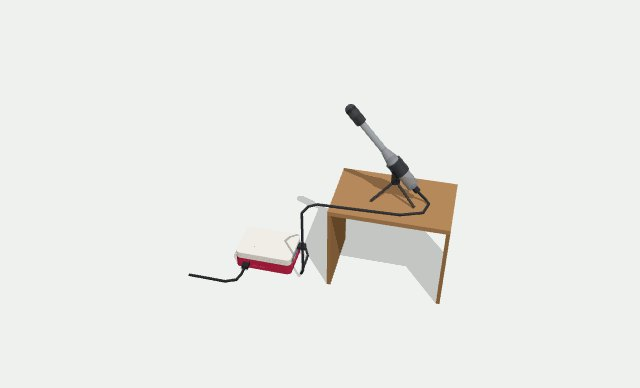
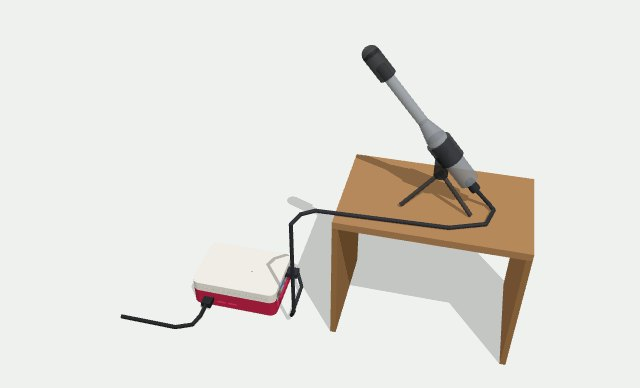
3D tab handles like the drone guide: wheel zoom, one-finger turn, Reset view, Full screen
Round 2 of the "play, spin and zoom freely" plan (Shad, 24 Nov 2026).

- The wheel over the model zooms; one finger turns it, two fingers zoom and
  slide. "Move the model" is gone; the page scrolls when touched outside
  the model.
- No glide: the model stops dead when you let go.
- Zoom limits as on the drone guide (0.25x to 3.2x the fitted distance).
  The camera never goes under the floor, except in step 5's view from below.
- Framed tight with the drone guide's corner fit, in a big frame (about
  585 px on a laptop); the step panel sits under the model on every screen.
- Reset view puts the camera back to the current step's view (camera only).
- Full screen as on the drone guide (an overlay with Close where the browser
  has no full screen for a page element); Esc closes it.
- The hint line in the drone guide's words, with touch words on a phone.
- check_page.py and checks/selftest.html check all of it in a real browser;
  the step pictures are retaken for the new framing.

Claude-Session: https://claude.ai/code/session_01TojNKSHurtPHdkP782ecRj

Changed region(s): [[0.2812, 0.0928, 0.8438, 0.9588], [0.25, 0.8041, 0.3125, 0.866], [0.1875, 0.8041, 0.25, 0.8351]]

diff --git a/js/viewer.js b/js/viewer.js
@@ -1,4 +1,5 @@
-// 3D viewer + step panel. The page scrolls normally until "Move the model" is pressed (UI fix 2).
+// 3D viewer + step panel. Since 24 Nov 2026 it handles like the drone guide's 3D view: the wheel zooms, one finger turns,
+// two fingers zoom, the model stops dead when you let go, Reset view and Full screen (Round 2 of the 3D plan).
 import * as THREE from "three";
 import { OrbitControls } from "three/addons/controls/OrbitControls.js";
 import { GLTFLoader } from "three/addons/loaders/GLTFLoader.js";
@@ -21,6 +22,8 @@ const VIEWS = { overview: [0.25, 0.8, 1.0], top: [0.001, 1, 0.02], front: [0.1, 
 const STEP_VIEW = { 0: ["overview"], 1: ["overview"], 2: ["overview"], 3: ["mic"], 4: ["mic"], 5: ["under", null, ["case_base", "board"]],
   6: ["front", "assemble"], 7: ["front", "power", ["case_base", "case_lid"]], 8: ["overview", "power"], 9: ["mic"], 10: ["mic"], 11: ["overview", "power"] };
 const DEFAULT_CAPTION = caption.textContent;
+// the hint line in the drone guide's words; a touch screen gets the touch words
+if (window.matchMedia && matchMedia("(pointer: coarse)").matches) $("vhint").textContent = "Drag to rotate · pinch to zoom · two-finger drag to pan";
 
 const renderer = new THREE.WebGLRenderer({ antialias: true, preserveDrawingBuffer: true });
 renderer.setPixelRatio(Math.min(window.devicePixelRatio, 2));
@@ -32,13 +35,15 @@ const sun = new THREE.DirectionalLight(0xffffff, 1.8); sun.castShadow = true; su
 const fill = new THREE.DirectionalLight(0xffffff, 0.5); fill.position.set(-1, 0.6, -1); scene.add(fill);
 const camera = new THREE.PerspectiveCamera(32, 1, 1, 5000);
 const controls = new OrbitControls(camera, renderer.domElement);
-controls.enableDamping = true;
-// Not grabbed: one finger scrolls the page (touch-action pan-y), two fingers pinch-zoom the model, the mouse drags to turn it,
-// and the mouse wheel scrolls the page (Ctrl + wheel zooms). 'Move the model' adds one-finger turning.
-let grabbed = false;
-function setTouches() { controls.touches = { ONE: grabbed ? THREE.TOUCH.ROTATE : null, TWO: THREE.TOUCH.DOLLY_PAN }; }
-setTouches();
-host.addEventListener("wheel", (e) => { if (!grabbed && !e.ctrlKey) e.stopPropagation(); }, { capture: true });
+// as on the drone guide: no glide after you let go; the wheel zooms; one finger turns, two fingers zoom and slide;
+// the page scrolls when touched outside the model (touch-action:none on the model only)
+controls.enableDamping = false;
+controls.enablePan = true;
+controls.zoomSpeed = 0.9;
+controls.touches = { ONE: THREE.TOUCH.ROTATE, TWO: THREE.TOUCH.DOLLY_PAN };
+const FLOOR = Math.PI * 0.495, BELOW = Math.PI * 0.97;   // never under the floor, except in a view from below (step 5)
+let userMoved = false;                                    // the camera is where you put it (until Reset view or a step)
+controls.addEventListener("start", () => { userMoved = true; });
 const root = new THREE.Group(); scene.add(root);
 const groups = {}, home = new Map(), labelEls = {}, anchors = {};
 let spin = false, exploded = false, xray = false, labelsOn = true, power = false, measure = false, focus = null, topView = false;
@@ -47,8 +52,9 @@ const ease = (t) => (t < 0.5 ? 2 * t * t : 1 - Math.pow(-2 * t + 2, 2) / 2);
 const baseKey = (n) => (n || "").split("#")[0].split("__")[0];
 let currentView = "overview", currentAimNodes = null;
 
-function resize() { const w = host.clientWidth, h = host.clientHeight; renderer.setSize(w, h, false); camera.aspect = w / h; camera.updateProjectionMatrix(); }
-new ResizeObserver(() => { resize(); if (!tween) aimAt(currentView, false, currentAimNodes); }).observe(host); resize();
+function resize() { const w = host.clientWidth, h = host.clientHeight; if (!w || !h) return; renderer.setSize(w, h, false); camera.aspect = w / h; camera.updateProjectionMatrix(); }
+// a new size (a turned phone, Full screen) frames the view again, unless you have moved the camera yourself
+new ResizeObserver(() => { resize(); if (!tween && !userMoved) aimAt(currentView, false, currentAimNodes); }).observe(host); resize();
 
 Promise.all([new Promise((res, rej) => new GLTFLoader().load("models/noise-logger.glb", res, undefined, rej)),
   fetch("models/colors.json").then((r) => r.json()), fetch("models/numbers.json").then((r) => r.json())])
@@ -127,32 +133,56 @@ Promise.all([new Promise((res, rej) => new GLTFLoader().load("models/noise-logge
 // ---------- camera ----------
 // how far a part rises in the exploded view (mm)
 const lift = (k) => (k === "case_lid" ? 78 : k === "case_frame" || k === "fan" ? 52 : PI.includes(k) ? 22 : 0) + (k === "heatsink" ? 12 : 0);
+/** the 8 corners of every shown part's box, where the parts will be once they stop moving (model 'up' is the screen's y) */
+function cornersOf(nodes) {
+  const pts = [], one = new THREE.Box3();
+  (nodes && nodes.length ? nodes : Object.keys(groups)).forEach((k) => (groups[k] || []).forEach((o) => {
+    if (!o.visible) return;
+    const mover = home.has(o) ? o : o.parent, moved = home.has(mover) ? mover.position.z - home.get(mover).z : 0;
+    const rise = (exploded ? lift(k) : 0) - moved;
+    one.setFromObject(o); if (one.isEmpty()) return; one.min.y += rise; one.max.y += rise;
+    for (let i = 0; i < 8; i++) pts.push(new THREE.Vector3(i & 1 ? one.max.x : one.min.x, i & 2 ? one.max.y : one.min.y, i & 4 ? one.max.z : one.min.z));
+  }));
+  return pts;
+}
+// the camera fit is the drone guide's (docs/js/viewer3d.js, collectCorners + fitCamera): framed tight, not by a loose ball
+const probe = new THREE.PerspectiveCamera();
+/** how far back the camera must sit, looking along dir at centre, for the farthest corner to reach 'fill' of the frame */
+function fitDistance(points, centre, dir, fill = 0.88) {
+  probe.fov = camera.fov; probe.aspect = camera.aspect; probe.near = camera.near; probe.far = camera.far; probe.updateProjectionMatrix();
+  let dist = 0; points.forEach((p) => { dist = Math.max(dist, p.distanceTo(centre)); }); dist = Math.max(dist, 30) * 2.4;
+  const q = new THREE.Vector3();
+  for (let i = 0; i < 16; i++) {
+    probe.position.copy(centre).addScaledVector(dir, dist); probe.lookAt(centre); probe.updateMatrixWorld(true);
+    let worst = 0; points.forEach((p) => { q.copy(p).project(probe); worst = Math.max(worst, Math.abs(q.x), Math.abs(q.y)); });
+    if (worst <= 0.001 || Math.abs(worst - fill) < 0.006) break;
+    dist *= worst / fill;
+  }
+  return dist;
+}
+/** zoom limits as on the drone guide: 0.25x to 3.2x the fitted distance; the camera stays above the floor except from below */
+function setLimits(dist, below) { controls.minDistance = dist * 0.25; controls.maxDistance = dist * 3.2; controls.maxPolarAngle = below ? BELOW : FLOOR; }
 function aimAt(view, animate = true, nodes = null) {
   if (!fitSphere) return;
-  currentView = view; currentAimNodes = nodes;
-  let sphere = fitSphere;
-  if (nodes && nodes.length) {
-    const b = new THREE.Box3(), one = new THREE.Box3();
-    nodes.forEach((k) => (groups[k] || []).forEach((o) => {
-      // frame the parts where they will be once they stop moving (model 'up' is the screen's y)
-      const mover = home.has(o) ? o : o.parent, moved = home.has(mover) ? mover.position.z - home.get(mover).z : 0;
-      const rise = (exploded ? lift(k) : 0) - moved;
-      one.setFromObject(o); one.min.y += rise; one.max.y += rise; b.union(one);
-    }));
-    if (!b.isEmpty()) sphere = b.getBoundingSphere(new THREE.Sphere());
-  }
-  const vfov = THREE.MathUtils.degToRad(camera.fov), hfov = 2 * Math.atan(Math.tan(vfov / 2) * camera.aspect);
-  const dist = Math.max(sphere.radius, 30) / Math.sin(Math.min(vfov, hfov) / 2) * 1.08;
+  currentView = view; currentAimNodes = nodes; userMoved = false;
+  const pts = cornersOf(nodes), box = new THREE.Box3().setFromPoints(pts);
+  const centre = pts.length ? box.getCenter(new THREE.Vector3()) : fitSphere.center.clone();
   const dir = new THREE.Vector3(...(VIEWS[view] || VIEWS.overview)).normalize();
-  const toPos = sphere.center.clone().addScaledVector(dir, dist), toTarget = sphere.center.clone();
-  if (!animate) { camera.position.copy(toPos); controls.target.copy(toTarget); controls.update(); return; }
+  const dist = pts.length ? fitDistance(pts, centre, dir) : fitSphere.radius * 3;
+  const toPos = centre.clone().addScaledVector(dir, dist), toTarget = centre.clone(), below = dir.y < 0;
+  if (!animate) { tween = null; setLimits(dist, below); camera.position.copy(toPos); controls.target.copy(toTarget); controls.update(); return; }
+  // while the camera glides to the new view the limits are wide open, so it never jumps; they close when it arrives
+  controls.minDistance = 0; controls.maxDistance = Infinity; controls.maxPolarAngle = BELOW;
   const fromPos = camera.position.clone(), fromTarget = controls.target.clone(), t0 = performance.now();
   tween = (now) => {
     const e = ease(Math.min(1, (now - t0) / 900));
     camera.position.lerpVectors(fromPos, toPos, e); controls.target.lerpVectors(fromTarget, toTarget, e);
-    if (e >= 1) tween = null;
+    if (e >= 1) { tween = null; setLimits(dist, below); }
   };
 }
+/** Reset view: the camera only (parts, modes and labels stay), back to the current step's own view */
+let stepAim = { view: "overview", nodes: null };
+function resetView() { aimAt(stepAim.view, true, stepAim.nodes); }
 
 // ---------- modes ----------
 function setExploded(on, animate = true) {
@@ -194,10 +224,21 @@ $("b-labels").onclick = () => { labelsOn = !labelsOn; press("b-labels", labelsOn
 $("b-measure").onclick = () => { setMeasure(!measure); if (measure) { setExploded(false, false); aimAt("top", true, ["board"]); } };
 $("b-power").onclick = () => { power = !power; press("b-power", power); paint(); };
 $("b-spin").onclick = () => { spin = !spin; press("b-spin", spin); };
-$("b-grab").onclick = () => {
-  grabbed = !grabbed; setTouches(); host.classList.toggle("grabbed", grabbed); press("b-grab", grabbed);
-  $("b-grab").textContent = grabbed ? "Done moving (scroll the page again)" : "Move the model";
+$("b-reset").onclick = resetView;
+// Full screen as on the drone guide: the real full screen where the browser has one for a page element; otherwise
+// (iPhone Safari), or when it fails, the 3D view fills the screen as an overlay with a Close button. Esc closes both.
+const vwrap = $("vwrap");
+function isFull() { return document.fullscreenElement === vwrap || vwrap.classList.contains("v-overlay"); }
+function setFullLabel() { $("b-full").textContent = isFull() ? "Close full screen" : "Full screen"; press("b-full", isFull()); }
+function closeOverlay() { vwrap.classList.remove("v-overlay"); document.documentElement.classList.remove("v-locked"); setFullLabel(); }
+function openOverlay() { vwrap.classList.add("v-overlay"); document.documentElement.classList.add("v-locked"); setFullLabel(); }
+$("b-full").onclick = () => {
+  if (vwrap.classList.contains("v-overlay")) { closeOverlay(); return; }
+  if (document.fullscreenElement) { document.exitFullscreen(); return; }
+  if (typeof vwrap.requestFullscreen === "function") vwrap.requestFullscreen().catch(openOverlay); else openOverlay();
 };
+document.addEventListener("fullscreenchange", setFullLabel);
+document.addEventListener("keydown", (e) => { if (e.key === "Escape" && vwrap.classList.contains("v-overlay")) closeOverlay(); });
 
 // ---------- measurements drawn on the model (official numbers) ----------
 function buildMeasurements(s, num) {
@@ -240,7 +281,8 @@ function renderStep(i, animate = true) {
   const aim = frame ? frame : view === "mic" ? (s.n === 9 ? ["mic", "shelf", "cable", "case_base"] : ["mic"]) : extra === "measure" ? ["board"] : focus && view !== "overview" ? focus.filter((k) => k !== "mic") : null;
   if (extra === "measure") focus = ["board"];
   paint();
-  aimAt(view, animate, aim && aim.length ? aim : null);
+  stepAim = { view, nodes: aim && aim.length ? aim : null };
+  aimAt(view, animate, stepAim.nodes);
 }
 $("sp-back").onclick = () => renderStep(stepIdx - 1);
 $("sp-next").onclick = () => renderStep(stepIdx + 1);
@@ -287,3 +329,7 @@ renderer.setAnimationLoop((now) => {
   renderer.render(scene, camera);
   placeLabels();
 });
+
+// read-only numbers for the page check (checks/selftest.html): camera distance, zoom limits, the floor angle
+window.__view = () => ({ dist: camera.position.distanceTo(controls.target), min: controls.minDistance, max: controls.maxDistance,
+  polar: controls.getPolarAngle(), maxPolar: controls.maxPolarAngle, moved: userMoved, damping: controls.enableDamping, tweening: !!tween });

diff --git a/index.html b/index.html
@@ -91,9 +91,18 @@ textarea{width:100%;min-height:70px;border:1px solid var(--line);border-radius:1
 .still .play{position:absolute;left:50%;top:50%;transform:translate(-50%,-50%);width:58px;height:58px;border-radius:50%;background:#1f6feb;color:#fff;display:grid;place-items:center;font-size:24px;box-shadow:0 4px 14px rgba(0,0,0,.25)}
 .watch{display:flex;width:100%;justify-content:center;background:#1f6feb;color:#fff;border:0;border-radius:0 0 12px 12px;min-height:46px;font-weight:600;cursor:pointer}
 /* 3D tab: viewer + step panel (same element ids as the live guide's viewer) */
-#viewer{position:relative;height:380px;border-radius:14px;overflow:hidden;background:#eef1ee;touch-action:pan-y}
-#viewer canvas{display:block;width:100%;height:100%;touch-action:pan-y}
-#viewer.grabbed,#viewer.grabbed canvas{touch-action:none;outline:3px solid var(--pine)}
+/* 24 Nov 2026 (Round 2 of the 3D plan): a big frame that handles like the drone guide's. One finger on the model turns it,
+   two fingers zoom; the page scrolls when touched outside the model. */
+#viewer{position:relative;height:clamp(300px,56vh,520px);border-radius:14px;overflow:hidden;background:#eef1ee;touch-action:none}
+#viewer canvas{display:block;width:100%;height:100%;touch-action:none}
+.vhint{margin:6px 2px 0}
+#vwrap:fullscreen{display:flex;flex-direction:column;background:#fffdf8;padding:12px;overflow:auto}
+#vwrap:fullscreen #viewer{flex:1 1 auto;height:auto;min-height:0}
+#vwrap.v-overlay{position:fixed;inset:0;z-index:1000;display:flex;flex-direction:column;background:#fffdf8;overflow:auto;
+  padding:calc(10px + env(safe-area-inset-top)) calc(10px + env(safe-area-inset-right)) calc(10px + env(safe-area-inset-bottom)) calc(10px + env(safe-area-inset-left))}
+#vwrap.v-overlay #viewer{flex:0 0 auto;height:72vh;height:72dvh}
+html.v-locked,html.v-locked body{overflow:hidden}
+html.v-locked .tabs{display:none}
 .vlabel{position:absolute;transform:translate(-50%,-100%);background:rgba(18,58,46,.92);color:#fff;font-size:13px;line-height:1.3;padding:4px 8px;border-radius:8px;white-space:nowrap;cursor:pointer;border:0;min-height:28px}
 .vlabel::after{content:"";position:absolute;left:0;right:0;top:-8px;bottom:-8px} /* 44 px to tap */
 .vlabel .dot{position:absolute;left:50%;bottom:-9px;width:7px;height:7px;margin-left:-3.5px;border-radius:50%;background:var(--ember);box-shadow:0 0 0 2px #fff}
@@ -106,7 +115,8 @@ textarea{width:100%;min-height:70px;border:1px solid var(--line);border-radius:1
 .sp-head{display:flex;justify-content:space-between;align-items:baseline;gap:8px}
 .sp-nav{display:grid;grid-template-columns:1fr 1.4fr;gap:8px}.sp-nav .btn:disabled,.mnav .btn:disabled{opacity:.45}
 .check{background:var(--pine-pale);border-radius:10px;padding:8px 10px}
-@media (min-width:900px){#viewer{height:470px}.stage{grid-template-columns:1fr 320px}.mnav{display:none}}
+/* the step panel sits under the model on every screen; on a laptop the model is about 585 px tall */
+@media (min-width:900px){#viewer{height:min(585px,calc(100vh - 140px))}.mnav{display:none}}
 /* Buy */
 .parts{display:grid;grid-template-columns:repeat(auto-fit,minmax(250px,1fr));gap:12px}
 .part{border:1px solid var(--line);border-radius:14px;padding:12px;background:#fff;display:flex;flex-direction:column;gap:3px}
@@ -193,19 +203,23 @@ table{border-collapse:collapse;width:100%;font-size:15px} td,th{border-bottom:1p
 <section role="tabpanel" id="p-model" hidden>
   <div class="stage">
     <div>
+      <div id="vwrap">
       <div id="viewer" aria-label="3D model of the noise logger"></div>
+      <p class="small soft vhint" id="vhint">Drag to rotate &middot; scroll to zoom &middot; right-drag to pan</p>
       <div class="mnav"><button class="btn" id="m-back" type="button">‹ Back</button><span id="m-count" class="small"></span><button class="btn solid" id="m-next" type="button">Next ›</button></div>
       <div class="vbar">
         <button class="btn" id="b-assembled" aria-pressed="true">Assembled</button>
         <button class="btn" id="b-exploded" aria-pressed="false">Exploded</button>
         <button class="btn" id="b-xray" aria-pressed="false">See inside</button>
-        <button class="btn" id="b-grab" aria-pressed="false">Move the model</button>
+        <button class="btn" id="b-reset" type="button">Reset view</button>
+        <button class="btn" id="b-full" type="button" aria-pressed="false">Full screen</button>
       </div>
       <details class="more"><summary>More views</summary><div class="vbar">
         <button class="btn" id="b-labels" aria-pressed="true">Labels</button>
         <button class="btn" id="b-measure" aria-pressed="false">Show measurements</button>
         <button class="btn" id="b-power" aria-pressed="false">Power on (preview)</button>
         <button class="btn" id="b-spin" aria-pressed="false">Auto-spin</button></div></details>
+      </div>
       <p id="vcaption" class="small">You're looking at the whole device: the Raspberry Pi in its official case, and the microphone on a high shelf. The Pi is drawn from the official drawing; the case is simplified, and the mic, shelf and cables are drawn by eye. They are drawn close together: keep the real mic at least 1 m from the Pi. The mic is drawn leaning; point the real one up at the ceiling.</p>
     </div>
     <aside class="steppanel">

diff --git a/checks/selftest.html b/checks/selftest.html
@@ -48,6 +48,41 @@ async function run() {
     for (let i = 0; i < ghosted.length; i += 4) if (ghosted[i] > 140 && ghosted[i + 1] < 90 && ghosted[i + 2] < 120) red++;   // solid case-red
     out.step5Title = d.getElementById("sp-title").textContent;
     out.step5SolidRed = Math.round(1000 * red / (ghosted.length / 4)) / 10;   // % of the picture still solid red: the base must be ghosted here
+    out.step5MaxPolar = Math.round(w.__view().maxPolar * 1000) / 1000;      // step 5 looks from below, so it may go under the floor
+
+    // ---- Round 2 (24 Nov 2026): handles like the drone guide ----
+    const vw = d.getElementById("viewer"), r0 = canvas.getBoundingClientRect();
+    out.viewerH = Math.round(vw.getBoundingClientRect().height);
+    out.touchAction = w.getComputedStyle(canvas).touchAction;
+    out.hint = (d.getElementById("vhint") || {}).textContent || "";
+    out.grabButton = !!d.getElementById("b-grab");
+    for (let i = 0; i < 6; i++) d.getElementById("m-back").click();             // back to the overview
+    await settle(1500);
+    const v0 = w.__view(), still = shot();
+    out.overviewMaxPolar = Math.round(v0.maxPolar * 1000) / 1000;
+    out.damping = v0.damping;
+    const wheel = (dy) => canvas.dispatchEvent(new w.WheelEvent("wheel", { deltaY: dy, clientX: r0.left + r0.width / 2, clientY: r0.top + r0.height / 2, bubbles: true, cancelable: true }));
+    out.wheelKeptFromPage = !wheel(-300);                                     // false from dispatchEvent = the page did not scroll
+    await settle(300);
+    out.wheelZoomChange = Math.round(differ(still, shot()) * 10) / 10;
+    out.wheelMoved = w.__view().moved;
+    for (let i = 0; i < 40; i++) wheel(-600); await settle(200);
+    const vin = w.__view(); out.zoomInStop = Math.round(vin.dist / vin.min * 1000) / 1000;     // 1 = stopped at the near limit
+    for (let i = 0; i < 60; i++) wheel(600); await settle(200);
+    const vout = w.__view(); out.zoomOutStop = Math.round(vout.dist / vout.max * 1000) / 1000; // 1 = stopped at the far limit
+    out.limitsRatio = Math.round(vout.max / vout.min * 100) / 100;                             // 3.2 / 0.25 = 12.8
+    press("b-reset"); await settle(1600);
+    out.resetBack = Math.round(differ(still, shot()) * 10) / 10;                // close to 0: the same picture as before the wheel
+    out.resetDist = Math.round(w.__view().dist / v0.dist * 1000) / 1000;
+    press("b-full"); await settle(800);
+    const wrap = d.getElementById("vwrap");
+    out.fullOpen = wrap.classList.contains("v-overlay") || d.fullscreenElement === wrap;
+    out.fullH = Math.round(vw.getBoundingClientRect().height);
+    out.fullLabel = d.getElementById("b-full").textContent;
+    d.dispatchEvent(new w.KeyboardEvent("keydown", { key: "Escape", bubbles: true }));
+    if (d.fullscreenElement) await d.exitFullscreen();
+    await settle(500);
+    out.fullClosed = !wrap.classList.contains("v-overlay") && !d.fullscreenElement && d.getElementById("b-full").textContent === "Full screen";
   }
 
   const seen = (el) => { const r = el.getBoundingClientRect(), cs = w.getComputedStyle(el); return r.width > 0 && r.height > 0 && cs.visibility !== "hidden" && cs.display !== "none"; };

diff --git a/scripts/check_page.py b/scripts/check_page.py
@@ -37,9 +37,17 @@ nav = re.search(r"\.tabs button\{[^}]*min-height:(\d+)px", css)
 ok(nav and int(nav.group(1)) >= 44, f"bottom tabs at least 44 px tall (found {nav.group(1) if nav else None})")
 lab = re.search(r"\.vlabel\{[^}]*font-size:(\d+)px", css)
 ok(lab and int(lab.group(1)) >= 13, f"3D labels at least 13 px (found {lab.group(1) if lab else None})")
-none_rules = re.findall(r"([^{}]+)\{[^}]*touch-action:none", css)
-ok(all("grabbed" in r for r in none_rules), f"touch-action:none only after 'Move the model' is pressed ({[r.strip() for r in none_rules]})")
-ok("ONE: grabbed ? THREE.TOUCH.ROTATE : null" in viewer and "stopPropagation" in viewer, "one finger and the mouse wheel scroll the page until 'Move the model'")
+# Round 2 of the 3D plan (24 Nov 2026): the 3D view handles like the drone guide's
+none_rules = [r.strip() for r in re.findall(r"([^{}]+)\{[^}]*touch-action:none", re.sub(r"/\*.*?\*/", "", css, flags=re.S))]
+ok(none_rules and all(r.startswith("#viewer") for r in none_rules), f"touch-action:none on the 3D view only, so the page scrolls outside it ({none_rules})")
+ok("ONE: THREE.TOUCH.ROTATE, TWO: THREE.TOUCH.DOLLY_PAN" in viewer and "stopPropagation" not in viewer, "one finger turns, two fingers zoom, and the wheel zooms (no wheel blocker)")
+ok("b-grab" not in html + viewer and "grabbed" not in html + viewer and "Move the model" not in html + viewer, "'Move the model' is gone")
+ok("enableDamping = false" in viewer, "no glide: the model stops dead when you let go")
+ok("dist * 0.25" in viewer and "dist * 3.2" in viewer and "Math.PI * 0.495" in viewer, "zoom limits 0.25x to 3.2x the fitted distance, and a floor, as on the drone guide")
+ok('id="b-reset"' in html and ">Reset view<" in html and 'id="b-full"' in html and ">Full screen<" in html, "Reset view and Full screen buttons")
+ok(">Drag to rotate &middot; scroll to zoom &middot; right-drag to pan<" in html and "pinch to zoom" in viewer, "the hint line in the drone guide's words, with the touch wording on touch screens")
+vh = re.search(r"@media \(min-width:900px\)\{#viewer\{height:min\((\d+)px", css)
+ok(vh and int(vh.group(1)) >= 560 and "grid-template-columns:1fr 320px" not in css, f"a big 3D frame on a laptop (about 585 px) with the step panel under it ({vh.group(1) if vh else None} px)")
 ok("touch-action: pan-x pan-y" in html and "gesturestart" in html and "user-scalable=no" in html, "the page itself never zooms (pinch or double-tap, iPhone included)")
 ok(html.count("</html>") == 1, "exactly one </html>")
 ok('aria-pressed' in html and 'Auto-spin' in html and 'id="ring"' in html and 'id="dc-mic"' in html, "pressed states, 'Auto-spin', progress ring and mic-test card present")
@@ -198,6 +206,16 @@ for tab in ("home", "build", "buy", "model"):
 ok(t.get("measurePressed") is True and t.get("seeInsideChange", 0) > 6, f"'See inside' really changes the picture (average change {t.get('seeInsideChange')}; under 1 means the case stayed solid)")
 ok(len(t.get("explodedLabels", [])) == 5, f"Exploded view: all 5 labels are inside the picture, lid included ({t.get('explodedLabels')})")
 ok(str(t.get("step5Title", "")).startswith("5.") and t.get("step5SolidRed", 100) < 2, f"stepping to step 5 ghosts the case so the card shows ({t.get('step5SolidRed')}% of the picture is still solid red)")
+ok(t.get("viewerH", 0) >= 300 and t.get("touchAction") == "none" and not t.get("grabButton"), f"at 390 px the 3D view is {t.get('viewerH')} px tall, one finger turns it (touch-action {t.get('touchAction')!r}), no 'Move the model'")
+ok(t.get("wheelKeptFromPage") is True and t.get("wheelZoomChange", 0) > 2 and t.get("wheelMoved") is True, f"the wheel zooms the model instead of scrolling the page (picture change {t.get('wheelZoomChange')})")
+ok(abs(t.get("zoomInStop", 0) - 1) < 0.02 and abs(t.get("zoomOutStop", 0) - 1) < 0.02 and abs(t.get("limitsRatio", 0) - 12.8) < 0.1,
+   f"zooming stops at both limits (near {t.get('zoomInStop')}, far {t.get('zoomOutStop')}, far/near {t.get('limitsRatio')})")
+ok(abs(t.get("overviewMaxPolar", 0) - 1.555) < 0.01 and abs(t.get("step5MaxPolar", 0) - 3.047) < 0.01 and t.get("damping") is False,
+   f"the camera never goes under the floor, except in step 5's view from below (floor {t.get('overviewMaxPolar')}, step 5 {t.get('step5MaxPolar')}); no glide")
+ok(t.get("resetBack", 99) < 1.5 and abs(t.get("resetDist", 0) - 1) < 0.01, f"Reset view puts the camera back where the step had it (picture difference {t.get('resetBack')}, distance {t.get('resetDist')})")
+ok(t.get("fullOpen") is True and t.get("fullH", 0) > t.get("viewerH", 0) and t.get("fullLabel") == "Close full screen" and t.get("fullClosed") is True,
+   f"Full screen opens ({t.get('fullH')} px tall) and Esc closes it")
+ok(t.get("hint", "").startswith("Drag to rotate"), f"the hint line shows under the 3D view ({t.get('hint')!r})")
 ok(not t.get("errors"), f"no script errors while the page was used ({t.get('errors')})")
 links = t.get("links", [])
 same_tab = [l["href"] for l in links if not l["newTab"]]
